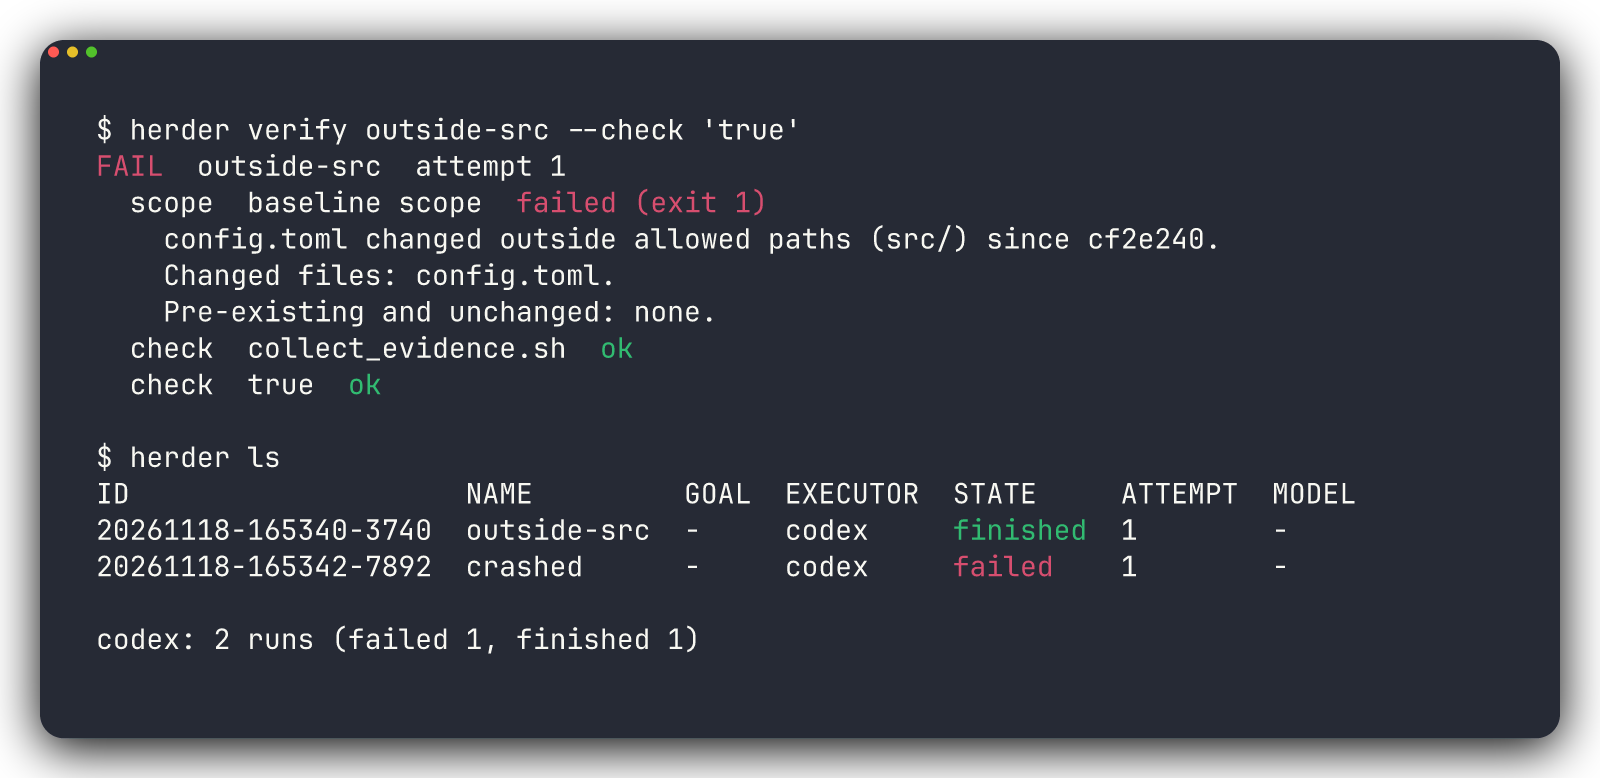
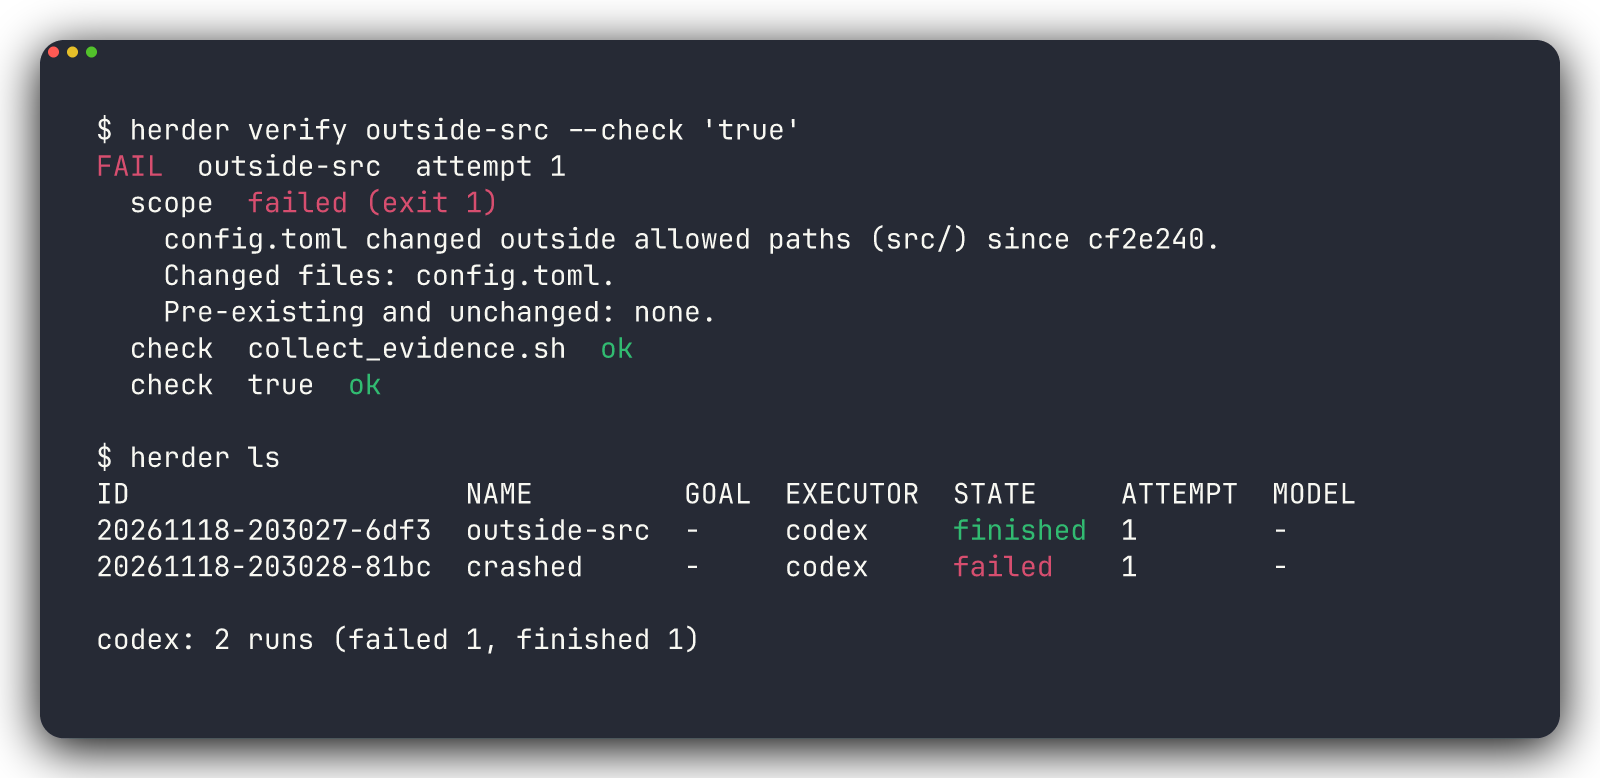
Print the verify scope row without repeating the word scope
The row read "scope  baseline scope  failed"; it now reads "scope  failed".
The stored check command and --json output are unchanged.

Changed region(s): [[0.1562, 0.6478, 0.2812, 0.7404], [0.1562, 0.2468, 0.4688, 0.2776]]

diff --git a/tests/cli.rs b/tests/cli.rs
@@ -1195,13 +1195,13 @@ fn human_actions_and_multiline_evidence() {
         (
             vec!["verify", &id, "--path", "src/"],
             0,
-            "PASS  worker\\nname  attempt 1\n  scope  baseline scope  ok\n  check  collect_evidence.sh  ok\n".into(),
+            "PASS  worker\\nname  attempt 1\n  scope  ok\n  check  collect_evidence.sh  ok\n".into(),
         ),
         (
             vec!["verify", &id, "--path", "src/", "--check", check],
             1,
             format!(
-                "FAIL  worker\\nname  attempt 1\n  scope  baseline scope  ok\n  check  collect_evidence.sh  ok\n  check  {check}  failed (exit 1)\n    first\n    second\n"
+                "FAIL  worker\\nname  attempt 1\n  scope  ok\n  check  collect_evidence.sh  ok\n  check  {check}  failed (exit 1)\n    first\n    second\n"
             ),
         ),
     ] {
@@ -1280,7 +1280,7 @@ fn terminal_lists_and_verification_honor_no_color() {
     let (code, plain) = run(&["verify", &id, "--check", "true"], Some("1"));
     assert_eq!(code, Some(0));
     assert!(!plain.contains('\x1b'), "{plain:?}");
-    assert!(plain.contains("PASS  terminal  attempt 1\n  scope  baseline scope  ok"), "{plain:?}");
+    assert!(plain.contains("PASS  terminal  attempt 1\n  scope  ok"), "{plain:?}");
 }
 
 #[test]

diff --git a/src/render.rs b/src/render.rs
@@ -274,7 +274,11 @@ fn verification_text(name: &str, verification: &Verification, color: bool) -> St
             Some(exit) => (format!("failed (exit {exit})"), "31"),
             None => ("failed (no exit code)".to_owned(), "31"),
         };
-        output.push_str(&format!("  {label}  {}  {}\n", check.command.escape_debug(), paint(&result, code, color)));
+        output.push_str(&format!(
+            "  {label}  {}{}\n",
+            if label == "scope" { String::new() } else { format!("{}  ", check.command.escape_debug()) },
+            paint(&result, code, color)
+        ));
         if check.exit_code != Some(0) {
             let mut remaining = 2000;
             let mut lines = check.output.lines();
@@ -371,7 +375,7 @@ mod tests {
             verification_text("worker\nname", &verification, false),
             concat!(
                 "FAIL  worker\\nname  attempt 2\n",
-                "  scope  baseline scope  failed (exit 1)\n",
+                "  scope  failed (exit 1)\n",
                 "    outside src/\n",
                 "    file\n",
                 "  check  true  ok\n",

diff --git a/README.md b/README.md
@@ -15,7 +15,7 @@ Here a stub worker claimed success but edited `config.toml`, outside the `src/` 
 ```text
 $ herder verify outside-src --check 'true'
 FAIL  outside-src  attempt 1
-  scope  baseline scope  failed (exit 1)
+  scope  failed (exit 1)
     config.toml changed outside allowed paths (src/) since cf2e240.
     Changed files: config.toml.
     Pre-existing and unchanged: none.
